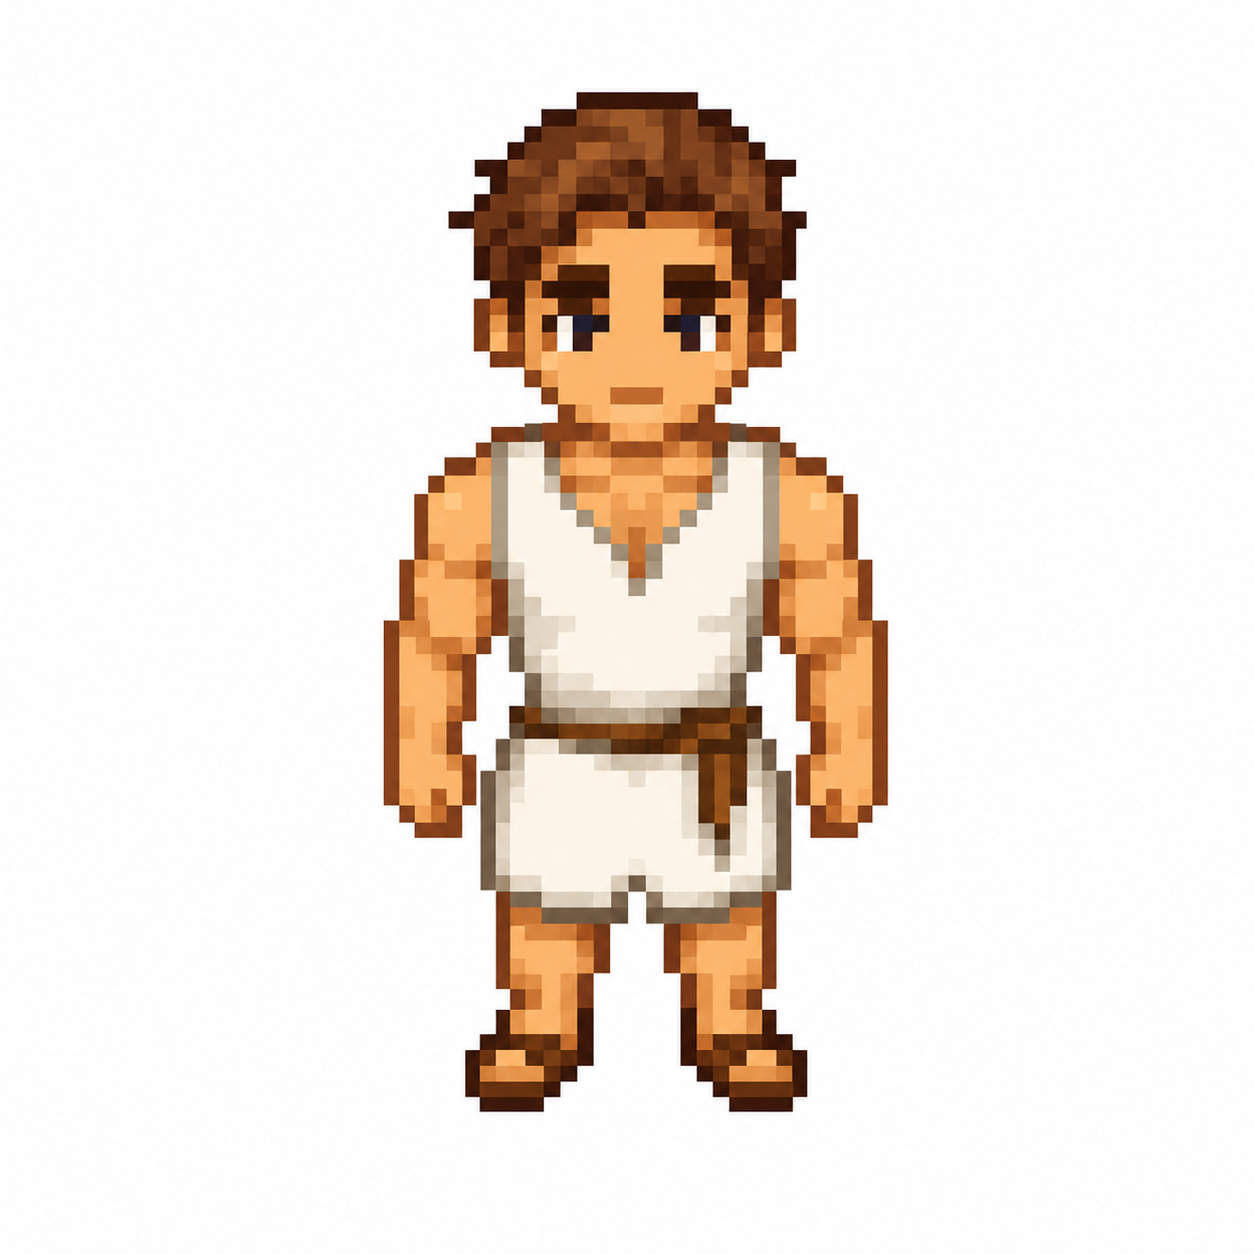
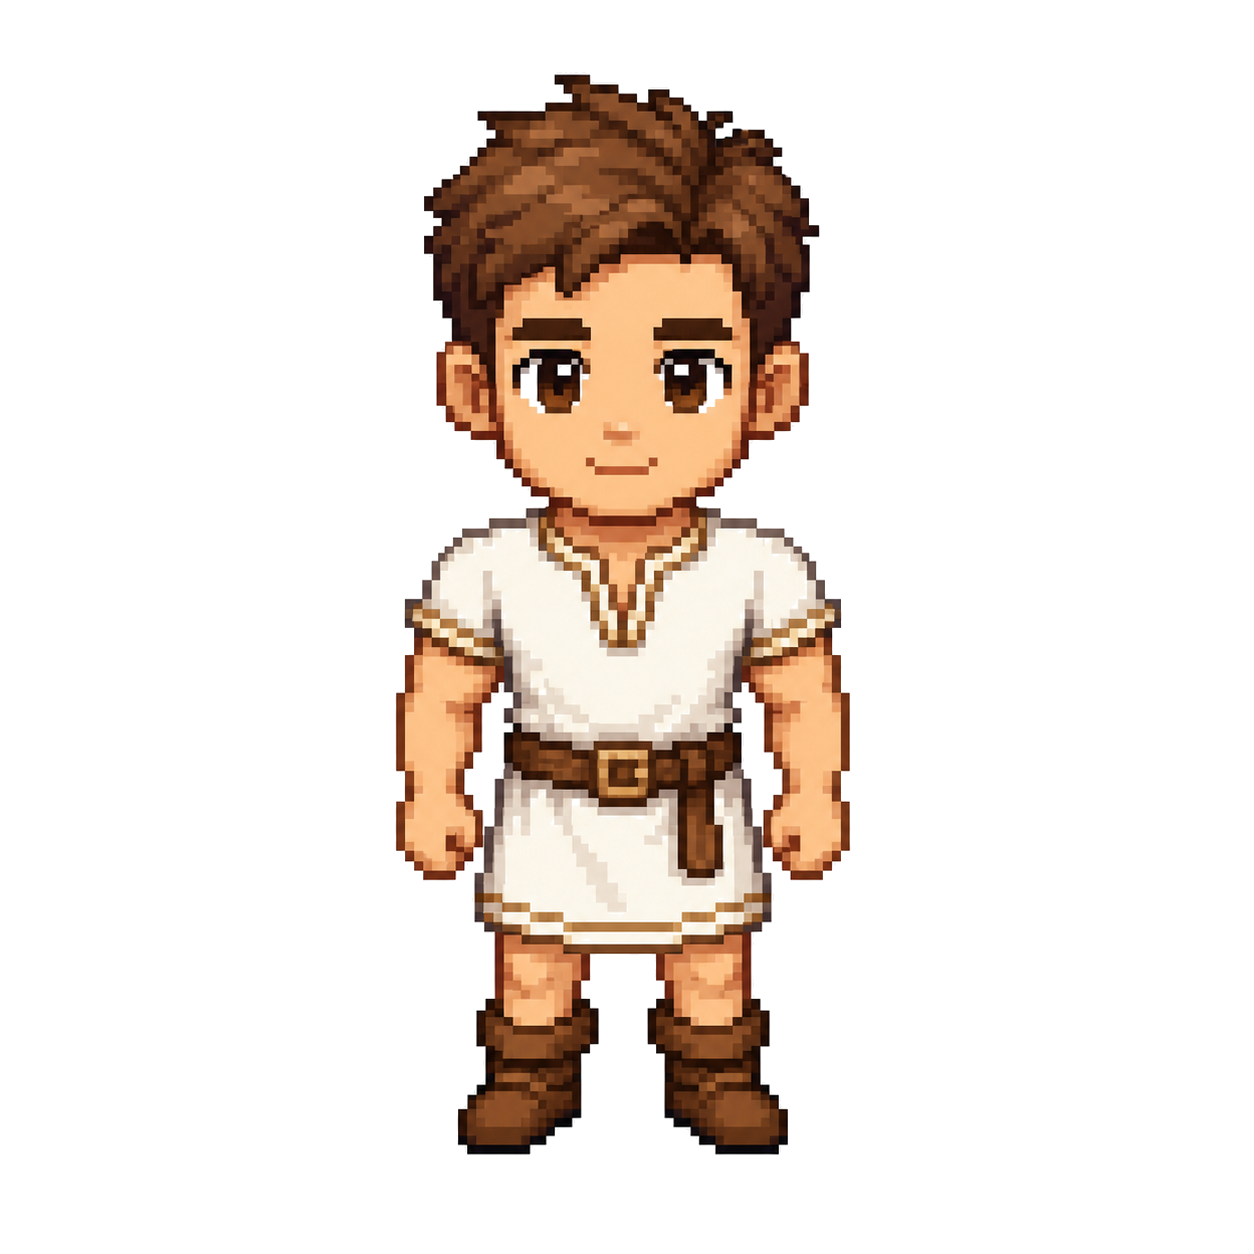
feat(bases): 7 corpos refeitos + 2 elders B — 17 bases com gênero
- baby_generic com rosto (era peach blob), child_masc_A com túnica, child_fem_A isolada (era cena), adult_masc_B sem barba atlético, adult_fem_B bob curto, elder_masc_B boina, elder_fem_B cacheada
- Atualiza BODY_OPTIONS 15->17 (add elder_masc_B/fem_B scale 0.97/0.95)
- Mantém 4 direções, escala 0.72-1.00, paleta pele quadradinhos, sem anatomia explícita
- Pendente: fundo transparente refinado em 5 assets (próximo turno)

Changed region(s): [[0.2799, 0.0622, 0.7153, 0.933]]

diff --git a/shared/constants.js b/shared/constants.js
@@ -453,7 +453,9 @@ export const BODY_OPTIONS = [
   { id: "adult_fem_A", name: "Adulto mulher A", age: "adult", gender: "fem", asset: "body_adult_fem_A.png", scale: 0.98 },
   { id: "adult_fem_B", name: "Adulto mulher B", age: "adult", gender: "fem", asset: "body_adult_fem_B.png", scale: 0.98 },
   { id: "elder_masc_A", name: "Velhinho", age: "elder", gender: "masc", asset: "body_elder_masc_A.png", scale: 0.97 },
+  { id: "elder_masc_B", name: "Velhinho B", age: "elder", gender: "masc", asset: "body_elder_masc_B.png", scale: 0.97 },
   { id: "elder_fem_A", name: "Velhinha", age: "elder", gender: "fem", asset: "body_elder_fem_A.png", scale: 0.95 },
+  { id: "elder_fem_B", name: "Velhinha B", age: "elder", gender: "fem", asset: "body_elder_fem_B.png", scale: 0.95 },
 ];
 export const GENDER_OPTIONS = [
   { id: "fem", name: "Feminino" },
